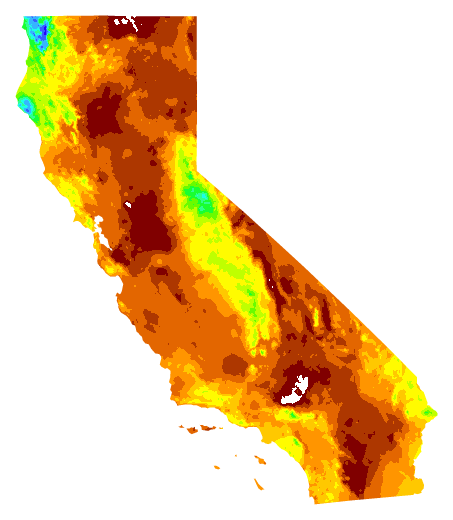
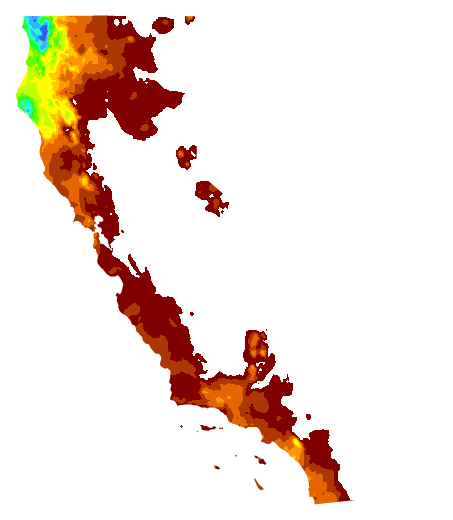
add vapor pressure deficit, update overlays

diff --git a/frontend/src/pages/myArea/myArea.jsx b/frontend/src/pages/myArea/myArea.jsx
@@ -10,14 +10,16 @@ import overlayPPT from "../../assets/myArea/1x/ppt.png";
 import overlaytmax from "../../assets/myArea/1x/tmax.png";
 //import overlaytmean_anom from "../../assets/myArea/1x/tmean_anom.png";
 import overlaytmin from "../../assets/myArea/1x/tmin.png";
+import overlayvpdmax from "../../assets/myArea/1x/vpdmax.png";
 import "./myArea.css";
 import { LEGENDS } from "./LEGENDS";
 
 const MASKS = [
     { id: 1, title: "Total Precipitation", image: overlayPPT, legend: LEGENDS.ppt },
-    { id: 2, title: "Temperature Max", image: overlaytmax, legend: LEGENDS.tmax },
-//{ id: 3, title: "Temperature Anomaly", image: overlaytmean_anom, legend: LEGENDS.tmean_anom },
-    { id: 3, title: "Temperature Minimum", image: overlaytmin, legend: LEGENDS.tmin },
+    { id: 2, title: "Maximum Temperature", image: overlaytmax, legend: LEGENDS.tmax },
+    //{ id: 3, title: "Temperature Anomaly", image: overlaytmean_anom, legend: LEGENDS.tmean_anom },
+    { id: 3, title: "Minimum Temperature", image: overlaytmin, legend: LEGENDS.tmin },
+    { id: 5, title: "Maximum Vapor Pressure Deficit", image: overlayvpdmax, legend: LEGENDS.vpdmax },
 ];
 
 const Legend = ({ legend }) => {

diff --git a/frontend/src/pages/myArea/LEGENDS.js b/frontend/src/pages/myArea/LEGENDS.js
@@ -21,4 +21,9 @@ export const LEGENDS = {
         edges: [-11, -7, -3, 1, 5, 9, 13, 17, 21, 25, 28, 31, 34, 37, 40, 43, 46, 49, 52, 55, 59, 63, 67, 71, 75, 79],
         colors: ["#dcdcdc", "#aaaaaa", "#960096", "#c800c8", "#a7c4e3", "#6496cd", "#32f0ff", "#9bf8ff", "#a0c8ff", "#9696ff", "#6e6ecd", "#4646c8", "#0000ff", "#46699b", "#577350", "#49913c", "#6ec36e", "#92e178", "#c1ffb4", "#ffff00", "#ffc000", "#d7a000", "#af7f00", "#d77378", "#e60000", "#be0000", "#820000"],
     },
+    vpdmax: {
+        unit: "hPa",
+        edges: [2, 4, 6, 8, 10, 14, 18, 22, 26, 30, 35, 40, 45, 50, 55, 60, 65],
+        colors: ["#9696ff", "#6e6ecd", "#4646c8", "#46699b", "#577350", "#49913c", "#6ec36e", "#92e178", "#c1ffb4", "#ffff00", "#ffc000", "#d7a000", "#af7f00", "#d77378", "#ff0000", "#c80000", "#960000", "#640000"],
+    },
 };
